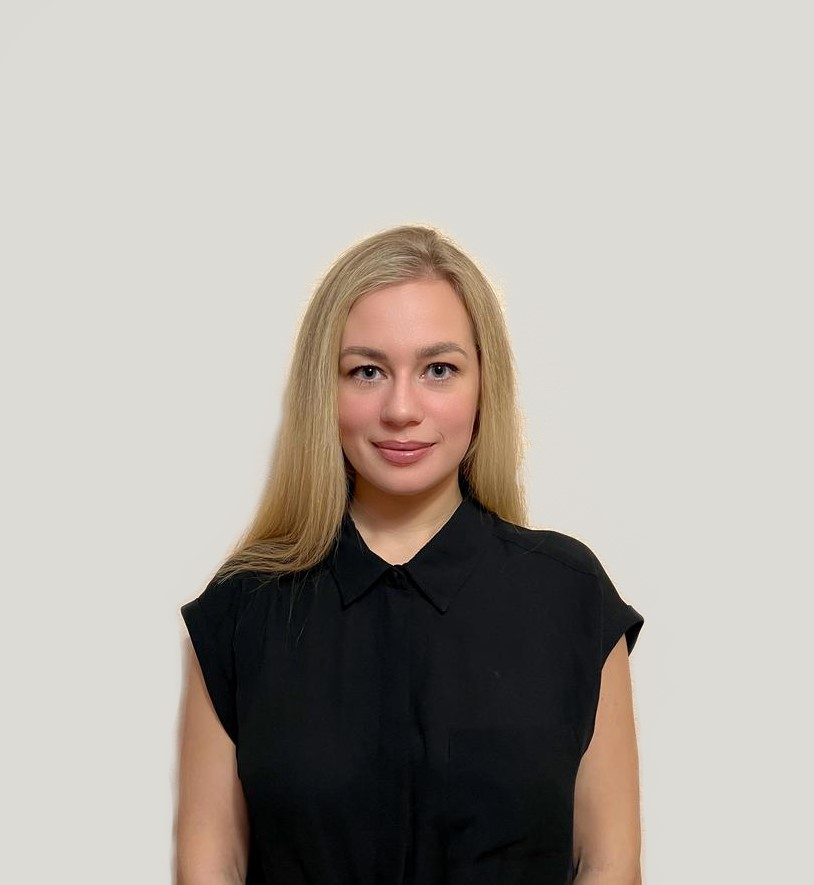
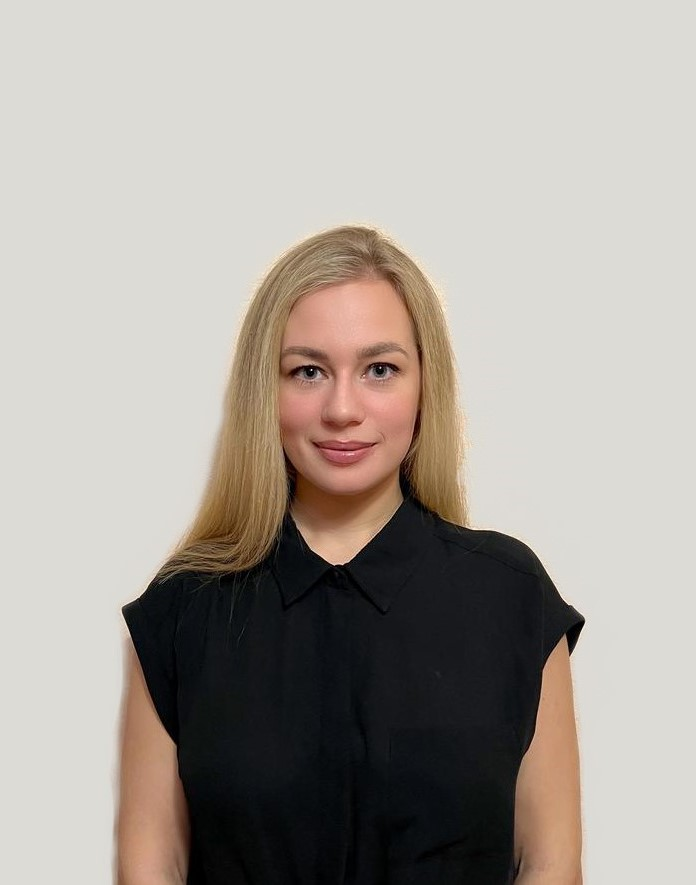
mobile version

Changed region(s): [[0.1509, 0.2441, 0.4828, 1.0], [0.5129, 0.2441, 0.8448, 1.0], [0.5129, 0.4881, 0.5431, 0.5186]]

diff --git a/blocks/coach/__image/coach__image.css b/blocks/coach/__image/coach__image.css
@@ -1,3 +1,4 @@
 .coach__image {
-    width: 275px;
+    max-width: 100%;
+    
 }
